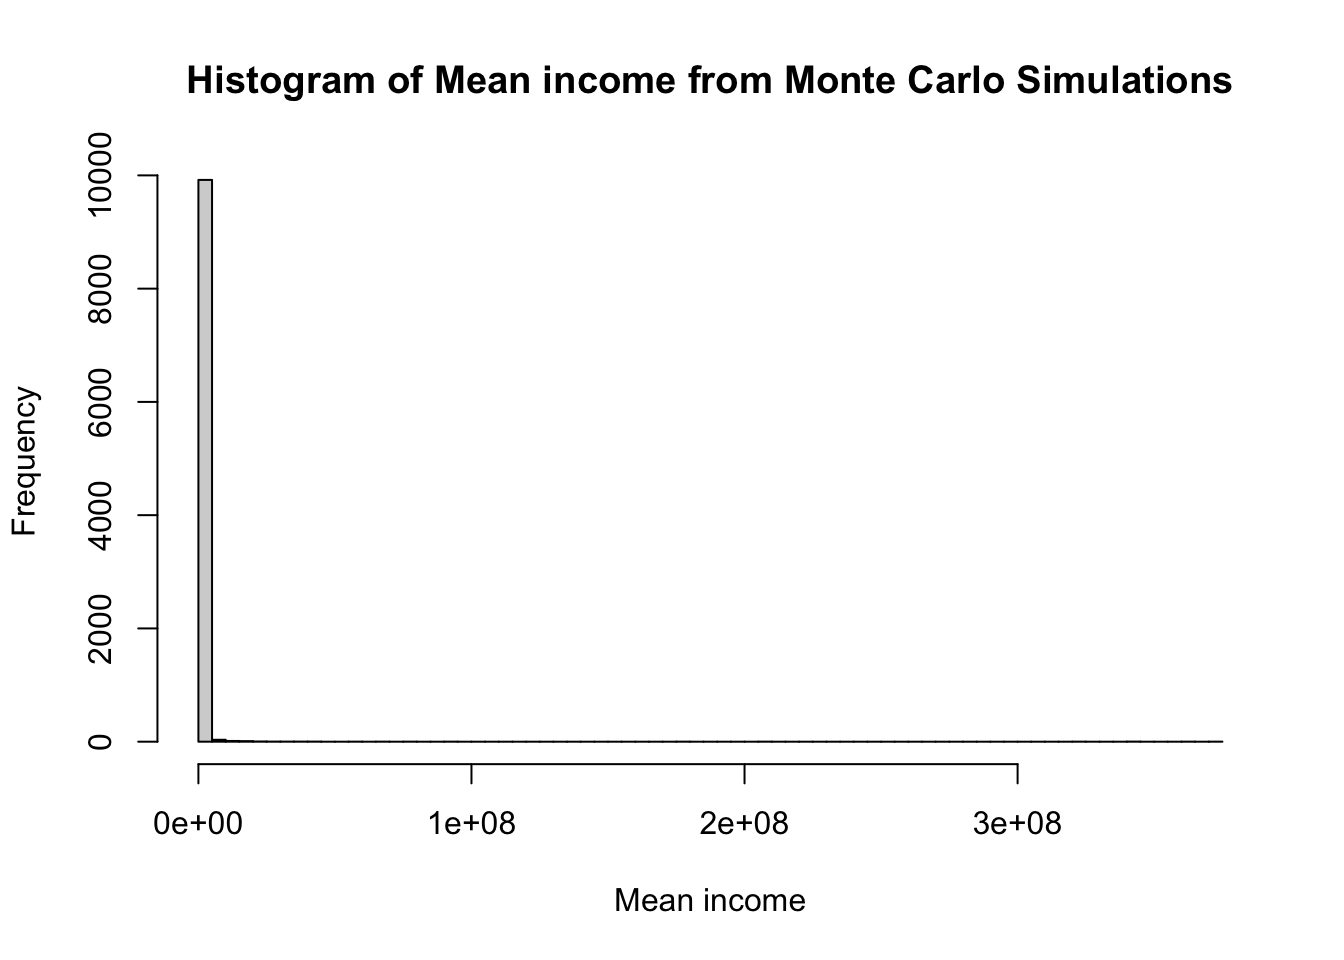
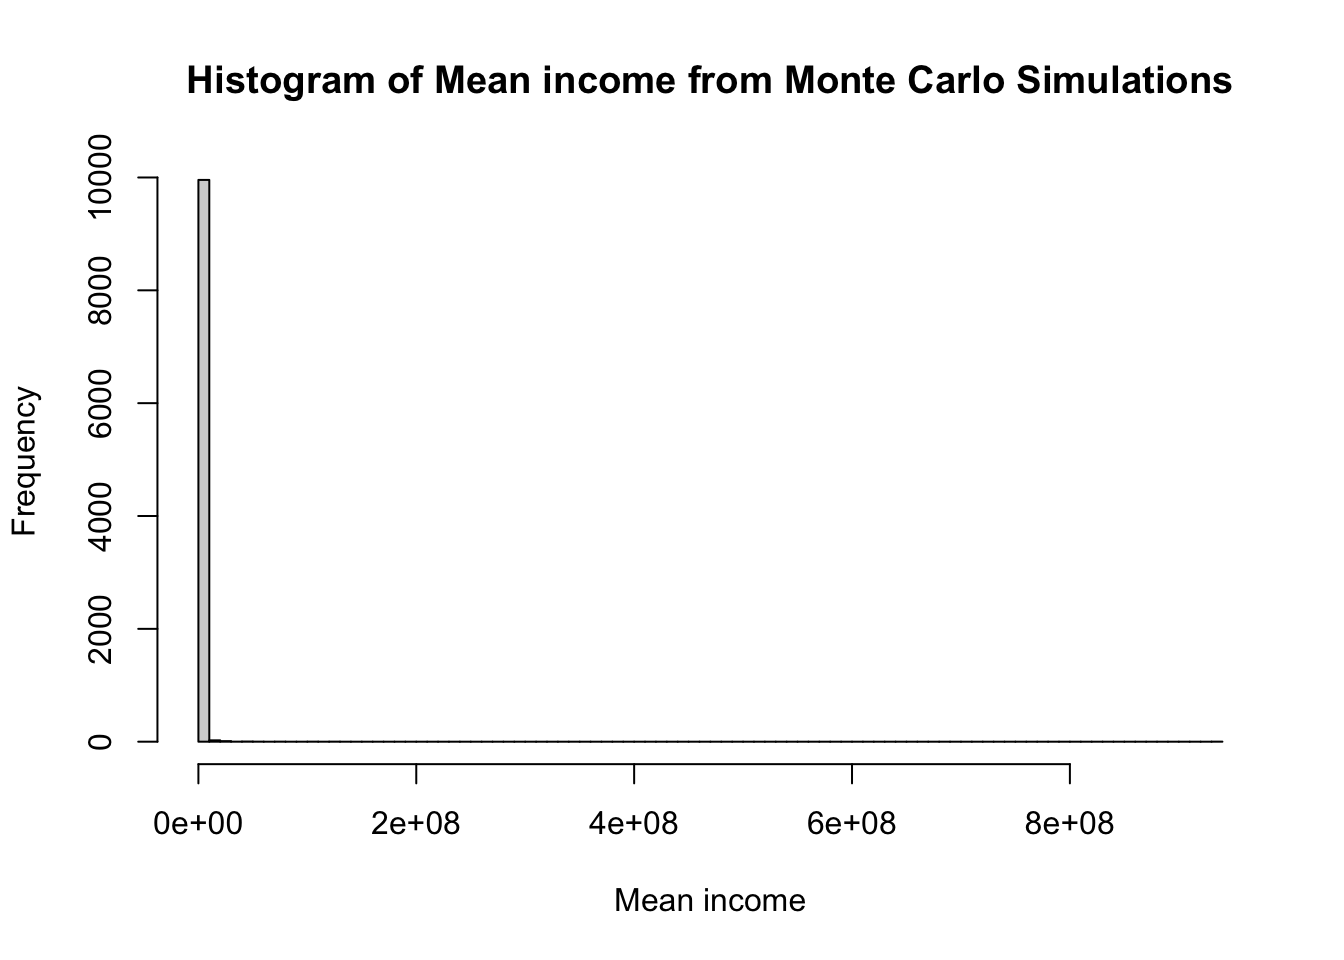
711241

diff --git a/docs/Catallactics/Personal/pricing.html b/docs/Catallactics/Personal/pricing.html
@@ -6,7 +6,7 @@
 
 <meta name="viewport" content="width=device-width, initial-scale=1.0, user-scalable=yes">
 
-<meta name="dcterms.date" content="2024-10-26">
+<meta name="dcterms.date" content="2024-11-07">
 
 <title>Hedge pricing – knotes</title>
 <style>
@@ -1355,7 +1355,7 @@ cookieconsent.run({
     <div>
     <div class="quarto-title-meta-heading">Published</div>
     <div class="quarto-title-meta-contents">
-      <p class="date">October 26, 2024</p>
+      <p class="date">November 7, 2024</p>
     </div>
   </div>
   
@@ -1401,7 +1401,7 @@ cookieconsent.run({
 <span id="cb2-3"><a href="#cb2-3" aria-hidden="true" tabindex="-1"></a>closing_price</span></code><button title="Copy to Clipboard" class="code-copy-button"><i class="bi"></i></button></pre></div>
 </details>
 <div class="cell-output cell-output-stdout">
-<pre><code>[1] 24180.8</code></pre>
+<pre><code>[1] 24484.05</code></pre>
 </div>
 </div>
 </section>
@@ -1461,7 +1461,7 @@ attr(,"class")
 <div class="sourceCode cell-code" id="cb8"><pre class="sourceCode r code-with-copy"><code class="sourceCode r"><span id="cb8-1"><a href="#cb8-1" aria-hidden="true" tabindex="-1"></a><span class="fu">print</span>(closing_price)</span></code><button title="Copy to Clipboard" class="code-copy-button"><i class="bi"></i></button></pre></div>
 </details>
 <div class="cell-output cell-output-stdout">
-<pre><code>[1] 24180.8</code></pre>
+<pre><code>[1] 24484.05</code></pre>
 </div>
 <details class="code-fold">
 <summary>Code</summary>
@@ -1475,7 +1475,7 @@ attr(,"class")
 <div class="sourceCode cell-code" id="cb12"><pre class="sourceCode r code-with-copy"><code class="sourceCode r"><span id="cb12-1"><a href="#cb12-1" aria-hidden="true" tabindex="-1"></a>strike</span></code><button title="Copy to Clipboard" class="code-copy-button"><i class="bi"></i></button></pre></div>
 </details>
 <div class="cell-output cell-output-stdout">
-<pre><code>[1] 20553.68</code></pre>
+<pre><code>[1] 20811.44</code></pre>
 </div>
 <details class="code-fold">
 <summary>Code</summary>
@@ -1484,10 +1484,10 @@ attr(,"class")
 <div class="cell-output cell-output-stdout">
 <pre><code>Concise summary of valuation for EuropeanOption 
      value      delta      gamma       vega      theta        rho     divRho 
-  113.2579    -0.0693     0.0000  2444.0138  -277.5194 -1029.2069   964.0836 </code></pre>
+  114.6782    -0.0693     0.0000  2474.6641  -280.9998 -1042.1141   976.1742 </code></pre>
 </div>
 </div>
-<p>Price of a <strong>4 month 5 delta option</strong> is 113 for the given strike price</p>
+<p>Price of a <strong>4 month 5 delta option</strong> is 115 for the given strike price</p>
 </section>
 <section id="take-home-message" class="level2">
 <h2 class="anchored" data-anchor-id="take-home-message">Take home message</h2>

diff --git a/docs/posts/montecarlo.html b/docs/posts/montecarlo.html
@@ -6,7 +6,7 @@
 
 <meta name="viewport" content="width=device-width, initial-scale=1.0, user-scalable=yes">
 
-<meta name="dcterms.date" content="2024-10-26">
+<meta name="dcterms.date" content="2024-11-07">
 
 <title>Income distribution – knotes</title>
 <style>
@@ -1393,7 +1393,7 @@ window.Quarto = {
     <div>
     <div class="quarto-title-meta-heading">Published</div>
     <div class="quarto-title-meta-contents">
-      <p class="date">October 26, 2024</p>
+      <p class="date">November 7, 2024</p>
     </div>
   </div>
   
@@ -1531,7 +1531,7 @@ Income distribution is not normal
 </details>
 <div class="cell-output cell-output-stdout">
 <pre><code>     Min.   1st Qu.    Median      Mean   3rd Qu.      Max. 
-   205042    296786    345133    777067    437709 372767242 </code></pre>
+   213979    294896    341513    665942    434628 939814228 </code></pre>
 </div>
 <details open="" class="code-fold">
 <summary>Code</summary>
@@ -1539,7 +1539,7 @@ Income distribution is not normal
 </details>
 <div class="cell-output cell-output-stdout">
 <pre><code>   Min. 1st Qu.  Median    Mean 3rd Qu.    Max. 
-  61994   64081   64506   64507   64935   66979 </code></pre>
+  62283   64090   64509   64519   64940   67057 </code></pre>
 </div>
 <details open="" class="code-fold">
 <summary>Code</summary>
@@ -1547,7 +1547,7 @@ Income distribution is not normal
 </details>
 <div class="cell-output cell-output-stdout">
 <pre><code>     Min.   1st Qu.    Median      Mean   3rd Qu.      Max. 
-9.444e+05 3.360e+06 5.772e+06 4.821e+07 1.200e+07 3.724e+10 </code></pre>
+9.508e+05 3.269e+06 5.551e+06 3.717e+07 1.161e+07 9.394e+10 </code></pre>
 </div>
 </div>
 </section>

diff --git a/docs/Catallactics/Personal/sequence2.html b/docs/Catallactics/Personal/sequence2.html
@@ -1340,7 +1340,7 @@ cookieconsent.run({
 </header>
 
 
-<p>First, we can summarise what we have learned from the previous post on risks: <a href="https://www.knotes.co.in/catallactics/personal/niftyreturns">Market risk is not the only risk in market</a>.</p>
+<p>First, we can summarise what we have learned from the previous post on risks: <a href="https://whttps://www.knotes.co.in/catallactics/personal/sequence1">Market risk is not the only risk in market.</a></p>
 <p>We invest into the future to meet future needs and wants. Historically, capital equity markets have outperformed other asset classes, so some of us tend to use equity as a vehicle to accumulate wealth. Market risk refers to the uncertainty in the average return we will realise by doing so. Beyond this, hidden risks—namely <a href="https://www.knotes.co.in/catallactics/personal/volatility">volatility risk</a><strong>, , inaction risk, and sequence of return risk</strong>—can affect our final Total Portfolio Value (TPV). We saw that the sequence in which we receive varying returns can have a profound impact on TPV, particularly when we are adding or, more importantly, withdrawing money from the portfolio. This risk vanishes if there are no additions or withdrawals, as CAGR is calculated by multiplying returns at different intervals of time.</p>
 <p><em>TPV = P * (1+r</em><sub>1</sub> )* (1+r<sub>2</sub> )*… * (1+r<sub>n</sub> )</p>
 <p>In a series of multiplications, the order does not matter. This holds true if we withdraw or add a fixed percentage of the portfolio instead of a fixed amount of money, as in a SIP or SWP.</p>

diff --git a/docs/posts.html b/docs/posts.html
@@ -1478,9 +1478,9 @@ Categories
 <span class="listing-categories">technology, ev</span>
 </td>
 </tr>
-<tr data-index="1" data-categories="Monte Carlo simulation,economics" data-listing-date-sort="1729881000000" data-listing-file-modified-sort="1716203287606" data-listing-date-modified-sort="NaN" data-listing-reading-time-sort="8" data-listing-word-count-sort="1412" data-listing-title-sort="Income distribution" data-listing-filename-sort="montecarlo.qmd">
+<tr data-index="1" data-categories="Monte Carlo simulation,economics" data-listing-date-sort="1730917800000" data-listing-file-modified-sort="1716203287606" data-listing-date-modified-sort="NaN" data-listing-reading-time-sort="8" data-listing-word-count-sort="1412" data-listing-title-sort="Income distribution" data-listing-filename-sort="montecarlo.qmd">
 <td>
-<span class="listing-date">Oct 26, 2024</span>
+<span class="listing-date">Nov 7, 2024</span>
 </td>
 <td>
 <a href="./posts/montecarlo.html" class="title listing-title">Income distribution</a>

diff --git a/docs/Biomedical/Research Methodology/wrangling.html b/docs/Biomedical/Research Methodology/wrangling.html
@@ -2828,10 +2828,10 @@ Record
    &lt;int&gt; &lt;int&gt; &lt;fctr&gt;
 1:     1     1  child
 2:     2     1  child
-3:     3     1  child
+3:     3     0  child
 4:     4     0  child
-5:     5     0  child
-6:     6     1  child</code></pre>
+5:     5     1  child
+6:     6     0  child</code></pre>
 </div>
 </div>
 <section id="making-data-wide" class="level3">
@@ -2851,10 +2851,10 @@ Record
    &lt;int&gt; &lt;fctr&gt; &lt;fctr&gt;
 1:     1   &lt;NA&gt;  child
 2:     2   &lt;NA&gt;  child
-3:     3   &lt;NA&gt;  child
+3:     3  child   &lt;NA&gt;
 4:     4  child   &lt;NA&gt;
-5:     5  child   &lt;NA&gt;
-6:     6   &lt;NA&gt;  child</code></pre>
+5:     5   &lt;NA&gt;  child
+6:     6  child   &lt;NA&gt;</code></pre>
 </div>
 </div>
 

diff --git a/docs/Catallactics/Personal/IMA SSS.html b/docs/Catallactics/Personal/IMA SSS.html
@@ -6,7 +6,7 @@
 
 <meta name="viewport" content="width=device-width, initial-scale=1.0, user-scalable=yes">
 
-<meta name="dcterms.date" content="2024-10-26">
+<meta name="dcterms.date" content="2024-11-07">
 
 <title>IMA SSS – knotes</title>
 <style>
@@ -1324,7 +1324,7 @@ cookieconsent.run({
     <div>
     <div class="quarto-title-meta-heading">Published</div>
     <div class="quarto-title-meta-contents">
-      <p class="date">October 26, 2024</p>
+      <p class="date">November 7, 2024</p>
     </div>
   </div>
   

diff --git a/docs/Revision notes/Diagrams/diagrams.html b/docs/Revision notes/Diagrams/diagrams.html
@@ -1820,7 +1820,7 @@ window.document.addEventListener("DOMContentLoaded", function (event) {
 </div>
   </div>
 </footer>
-<script>var lightboxQuarto = GLightbox({"closeEffect":"zoom","descPosition":"bottom","selector":".lightbox","loop":false,"openEffect":"zoom"});
+<script>var lightboxQuarto = GLightbox({"selector":".lightbox","openEffect":"zoom","loop":false,"descPosition":"bottom","closeEffect":"zoom"});
 (function() {
   let previousOnload = window.onload;
   window.onload = () => {
